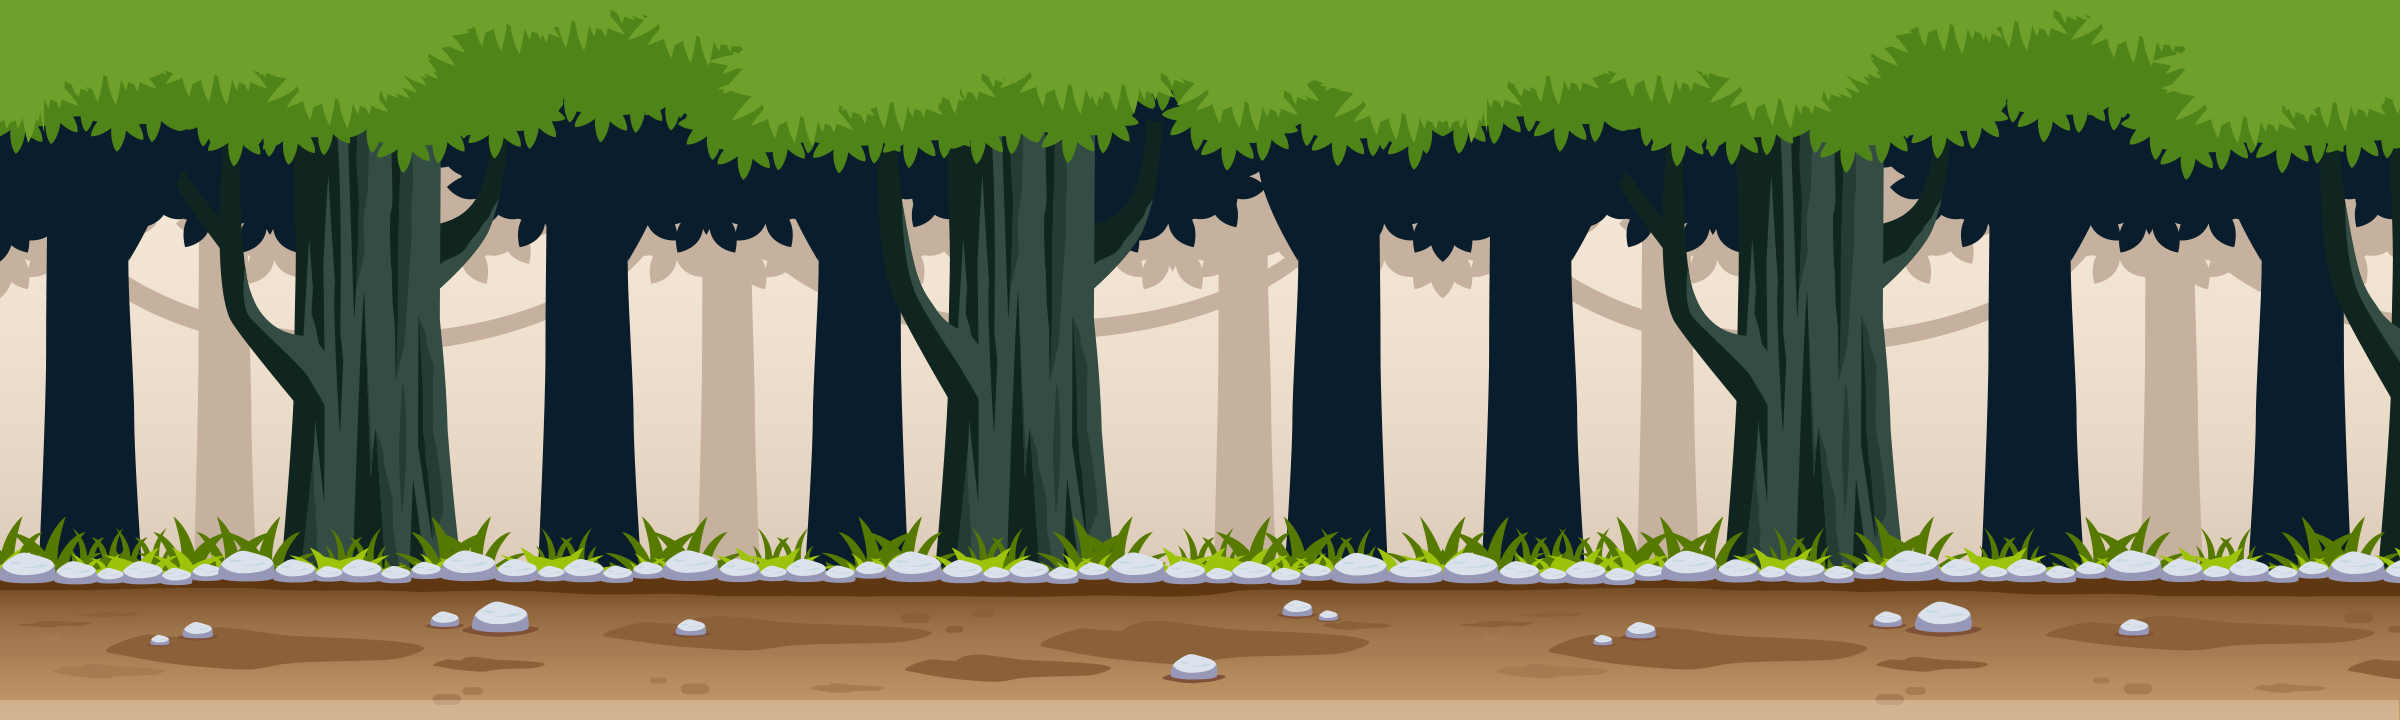
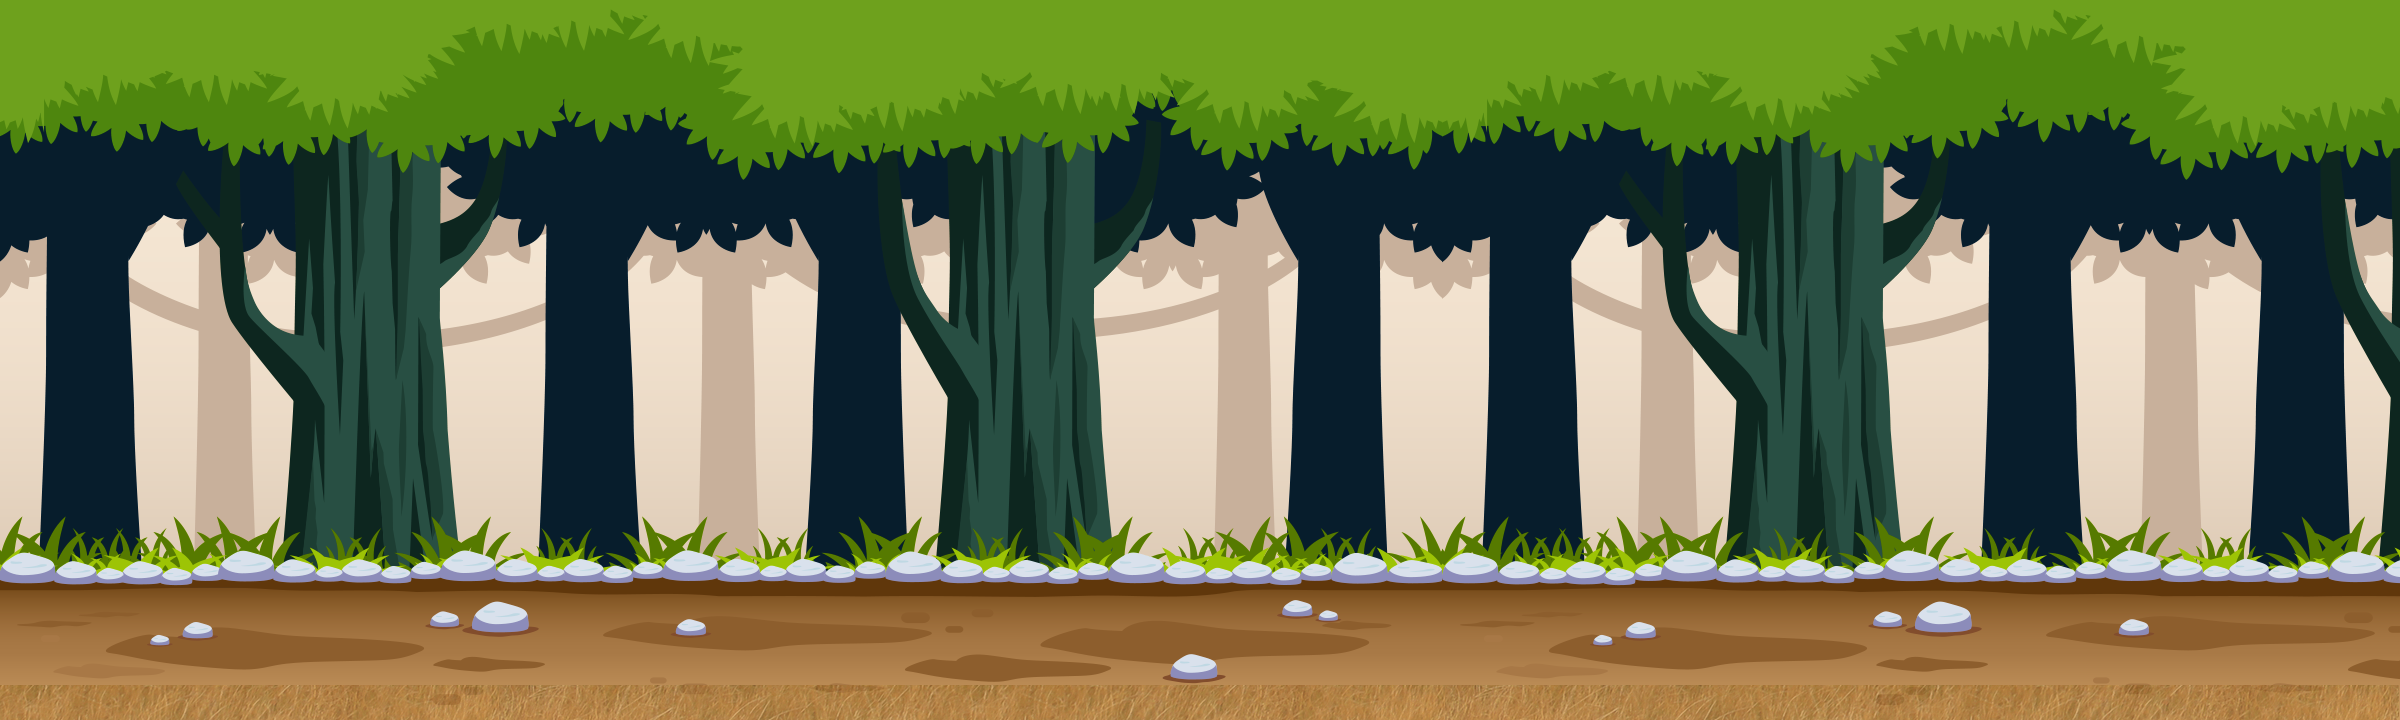
third commit - Graphic and Sprites

Changed region(s): [[0.0, 0.9472, 1.0, 1.0]]

diff --git a/game.js b/game.js
@@ -5,7 +5,7 @@ window.addEventListener('load', () => {
     const canvas = document.getElementById('canvas');
     const ctx = canvas.getContext('2d');
     const canvasWidth = 800;
-    const canvasHeight = 500;
+    const canvasHeight = 450;
 
     // const canvasWidth = window.innerWidth;
     // const canvasHeight = window.innerHeight;
@@ -61,7 +61,7 @@ window.addEventListener('load', () => {
             this.canvasWidth = canvasHeight;
             this.canvasWidth = canvasHeight;
             this.width = 200; // sprite sheet image
-            this.height = 200;
+            this.height = 175;
             this.x = 10;
             this.y = canvasHeight - this.height - 10;
             this.image = new Image();
@@ -144,7 +144,7 @@ window.addEventListener('load', () => {
             this.x = 0;
             this.y = 0;
             this.width = 2400;
-            this.height = 500;
+            this.height = 450;
             this.speed = 4;
         }
         draw(ctx) {
@@ -162,10 +162,10 @@ window.addEventListener('load', () => {
         constructor(canvasWidth, canvasHeight) {
             this.canvasWidth = canvasWidth;
             this.canvasHeight - canvasHeight;
-            this.width = 160;
-            this.height = 119;
+            this.width = 110;
+            this.height = 100;
             this.image = new Image();
-            this.image.src = './images/enemy.png';
+            this.image.src = './images/enemy1.png';
             this.x = canvasWidth;
             this.y = canvasHeight - this.height;
             this.frameX = 0;
